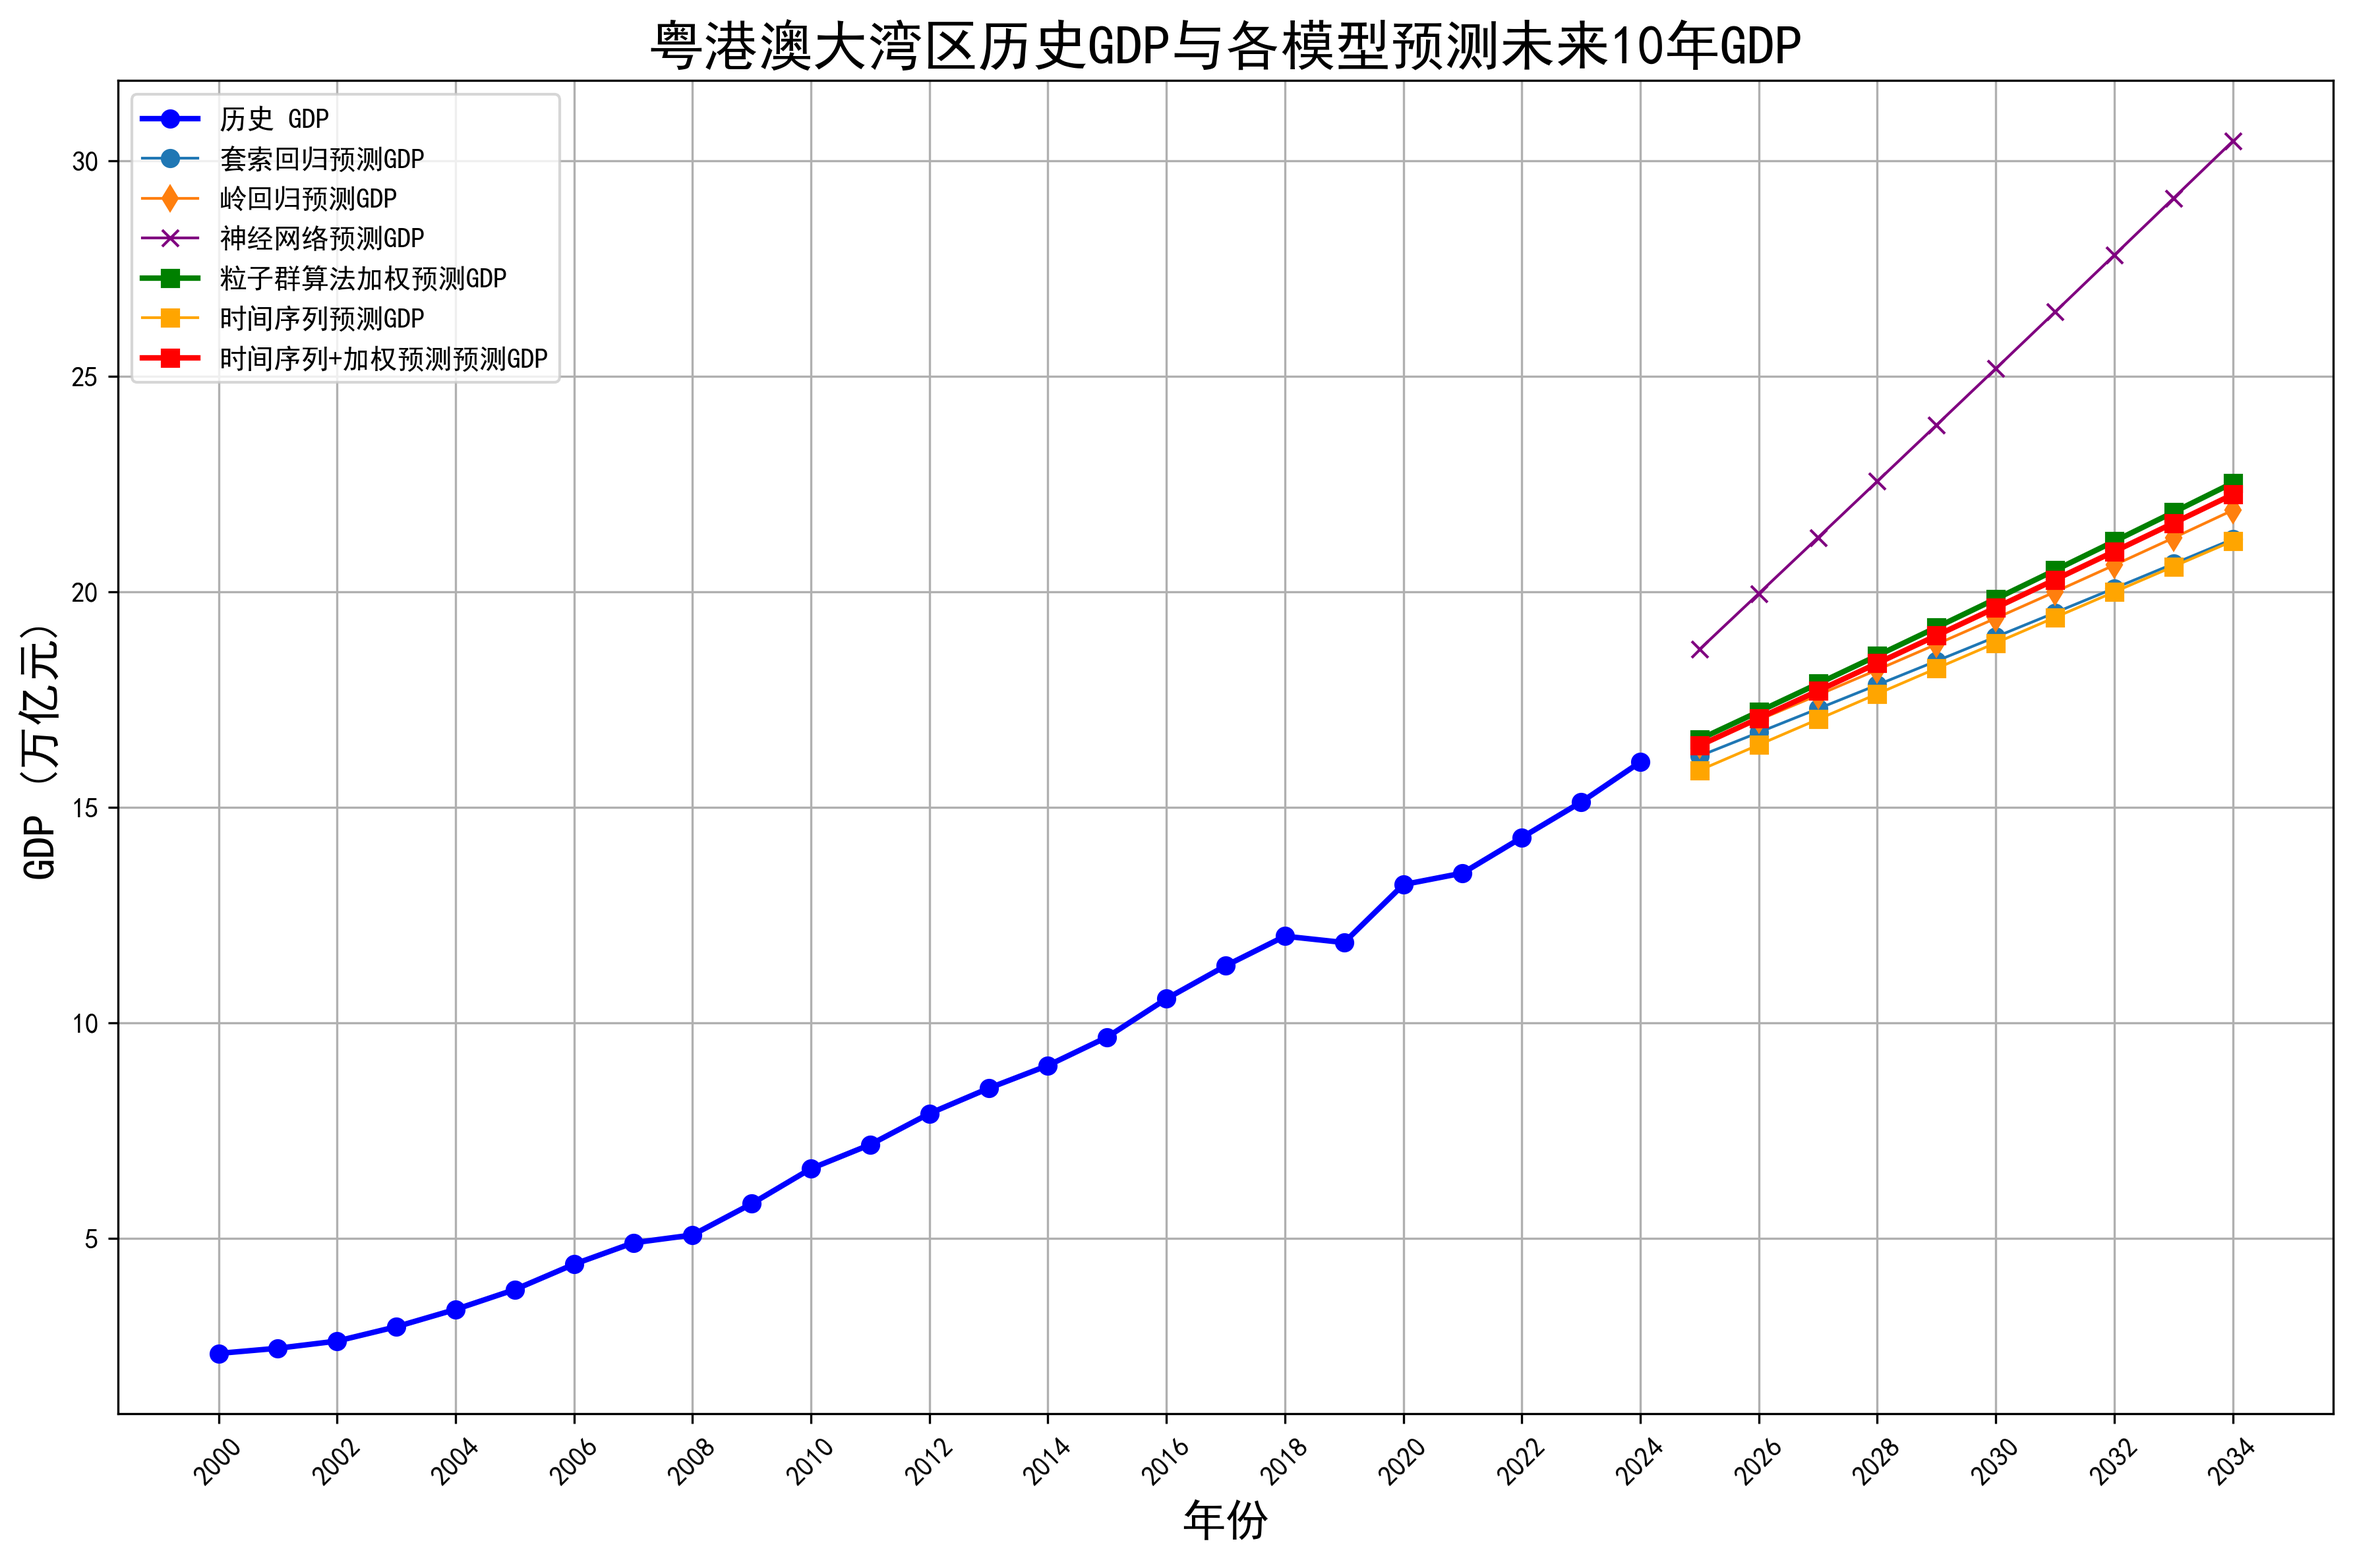
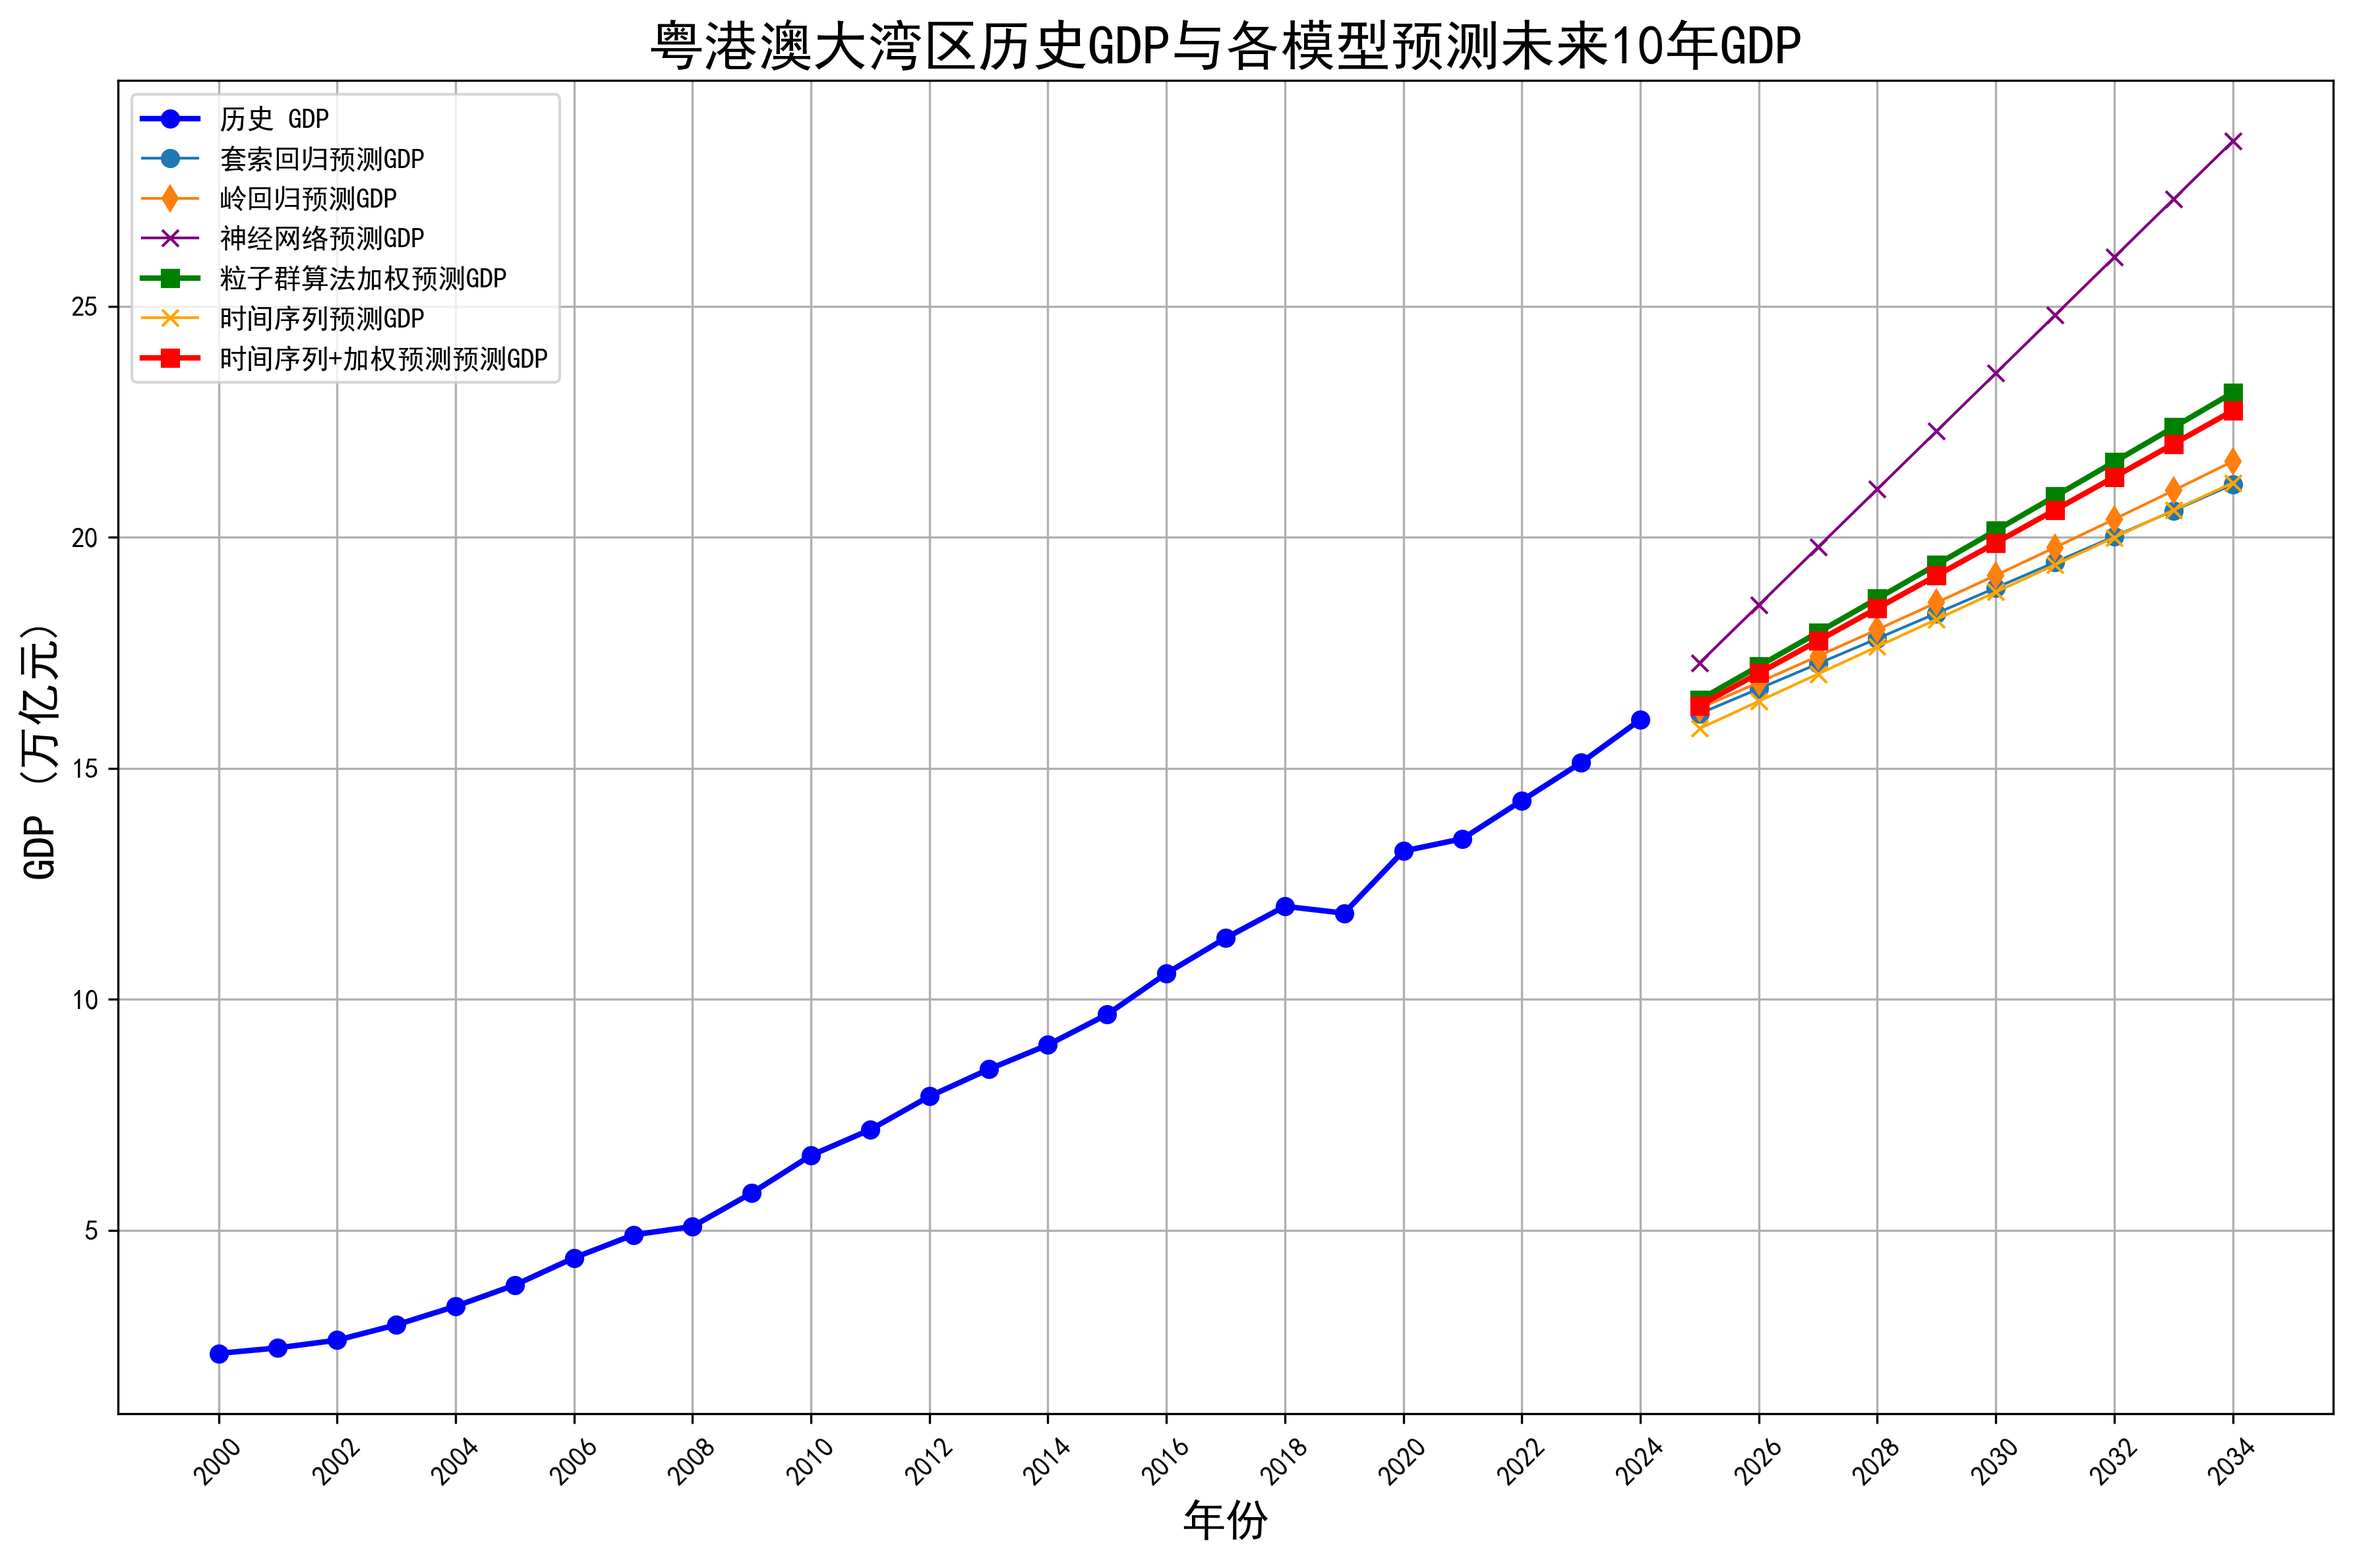
adjust figure format

diff --git a/Q3_newyork_yang.py b/Q3_newyork_yang.py
@@ -261,7 +261,7 @@ plt.show()
 
 # 设置随机种子
 np.random.seed(42)
-
+from statsmodels.tsa.arima.model import ARIMA
 
 # 定义生成未来10年数据的函数（无偏置项）
 def generate_future_data(data, years=10, growth_type='linear', model_type='linear_regression', random_state=42):
@@ -352,10 +352,10 @@ def generate_future_data(data, years=10, growth_type='linear', model_type='linea
 
 
 # 生成未来10年的人口数据
-future_population_data = generate_future_data(population_data, years=10, growth_type="xgboost")
+future_population_data = generate_future_data(population_data, years=10, growth_type="linear")
 
 # 生成未来10年的技术数据
-future_technology_data = generate_future_data(technology_data, years=10, growth_type='exponential')
+future_technology_data = generate_future_data(technology_data, years=10, growth_type='linear')
 
 # 生成未来10年的物流数据
 future_logistics_data = generate_future_data(logistics_data, years=10, growth_type='linear')
@@ -367,7 +367,7 @@ future_international_data = generate_future_data(international_data, years=10, g
 future_education_data = generate_future_data(education_data, years=10, growth_type='linear')
 
 # 生成未来10年的产业数据
-future_industry_data = generate_future_data(industry_data, years=10, growth_type='exponential')
+future_industry_data = generate_future_data(industry_data, years=10, growth_type='linear')
 
 # 合并生成的未来数据
 future_X = pd.concat([future_population_data, future_technology_data, future_logistics_data,
@@ -399,9 +399,9 @@ print(future_weighted)
 future_gdp_array = future_gdp.values.flatten()
 
 
-future_final_combine=0.5*future_weighted+0.5*future_gdp_array
+future_final_combine=0.8*future_weighted+0.2*future_gdp_array
 
-plt.figure(figsize=(12, 6))
+plt.figure(figsize=(12, 8))
 
 # 假设 gdp 数据从 2000 年开始，每年的索引递增
 start_year = 2000
@@ -416,17 +416,17 @@ combined_gdp = pd.concat([gdp, pd.Series(future_lasso, index=range(len(gdp), len
 plt.plot(years[:len(gdp)], gdp, 'o-', label='历史 GDP', linewidth=2, color='blue')
 
 # 绘制每个模型的未来预测曲线
-plt.plot(years[len(gdp):], future_lasso, 'o-', label='套索回归预测GDP', linewidth=2)
-plt.plot(years[len(gdp):], future_ridge, 'd-', label='岭回归预测GDP', linewidth=2)
-plt.plot(years[len(gdp):], future_nn, 'x-', label='神经网络预测GDP', linewidth=2, color='purple')
+plt.plot(years[len(gdp):], future_lasso, 'o-', label='套索回归预测GDP', linewidth=1)
+plt.plot(years[len(gdp):], future_ridge, 'd-', label='岭回归预测GDP', linewidth=1)
+plt.plot(years[len(gdp):], future_nn, 'x-', label='神经网络预测GDP', linewidth=1, color='purple')
 plt.plot(years[len(gdp):], future_weighted, 's-', label='粒子群算法加权预测GDP', linewidth=2, color='green')
-plt.plot(years[len(gdp):], future_gdp, 's-', label='时间序列预测GDP', linewidth=2, color='orange')
+plt.plot(years[len(gdp):], future_gdp, 'x-', label='时间序列预测GDP', linewidth=1, color='orange')
 plt.plot(years[len(gdp):], future_final_combine, 's-', label='时间序列+加权预测预测GDP', linewidth=2, color='red')
 
 # 设置图表标题和轴标签
 plt.title('纽约历史GDP与各模型预测未来10年GDP', fontsize=20)
 plt.xlabel('年份', fontsize=16)
-plt.ylabel('GDP (万亿元)', fontsize=16)
+plt.ylabel('GDP (万亿美元)', fontsize=16)
 
 # 调整 x 轴标签
 plt.xticks(years[::2], rotation=45)  # 每隔两年显示一次，标签旋转以适应

diff --git a/Q3_Tokyo_yang.py b/Q3_Tokyo_yang.py
@@ -261,7 +261,7 @@ plt.show()
 
 # 设置随机种子
 np.random.seed(42)
-
+from statsmodels.tsa.arima.model import ARIMA
 
 # 定义生成未来10年数据的函数（无偏置项）
 def generate_future_data(data, years=10, growth_type='linear', model_type='linear_regression', random_state=42):
@@ -352,10 +352,10 @@ def generate_future_data(data, years=10, growth_type='linear', model_type='linea
 
 
 # 生成未来10年的人口数据
-future_population_data = generate_future_data(population_data, years=10, growth_type="xgboost")
+future_population_data = generate_future_data(population_data, years=10, growth_type="linear")
 
 # 生成未来10年的技术数据
-future_technology_data = generate_future_data(technology_data, years=10, growth_type='exponential')
+future_technology_data = generate_future_data(technology_data, years=10, growth_type='linear')
 
 # 生成未来10年的物流数据
 future_logistics_data = generate_future_data(logistics_data, years=10, growth_type='linear')
@@ -367,7 +367,7 @@ future_international_data = generate_future_data(international_data, years=10, g
 future_education_data = generate_future_data(education_data, years=10, growth_type='linear')
 
 # 生成未来10年的产业数据
-future_industry_data = generate_future_data(industry_data, years=10, growth_type='exponential')
+future_industry_data = generate_future_data(industry_data, years=10, growth_type='linear')
 
 # 合并生成的未来数据
 future_X = pd.concat([future_population_data, future_technology_data, future_logistics_data,
@@ -399,9 +399,9 @@ print(future_weighted)
 future_gdp_array = future_gdp.values.flatten()
 
 
-future_final_combine=0.5*future_weighted+0.5*future_gdp_array
+future_final_combine=0.8*future_weighted+0.2*future_gdp_array
 
-plt.figure(figsize=(12, 6))
+plt.figure(figsize=(12, 8))
 
 # 假设 gdp 数据从 2000 年开始，每年的索引递增
 start_year = 2000
@@ -416,17 +416,17 @@ combined_gdp = pd.concat([gdp, pd.Series(future_lasso, index=range(len(gdp), len
 plt.plot(years[:len(gdp)], gdp, 'o-', label='历史 GDP', linewidth=2, color='blue')
 
 # 绘制每个模型的未来预测曲线
-plt.plot(years[len(gdp):], future_lasso, 'o-', label='套索回归预测GDP', linewidth=2)
-plt.plot(years[len(gdp):], future_ridge, 'd-', label='岭回归预测GDP', linewidth=2)
-plt.plot(years[len(gdp):], future_nn, 'x-', label='神经网络预测GDP', linewidth=2, color='purple')
+plt.plot(years[len(gdp):], future_lasso, 'o-', label='套索回归预测GDP', linewidth=1)
+plt.plot(years[len(gdp):], future_ridge, 'd-', label='岭回归预测GDP', linewidth=1)
+# plt.plot(years[len(gdp):], future_nn, 'x-', label='神经网络预测GDP', linewidth=2, color='purple')
 plt.plot(years[len(gdp):], future_weighted, 's-', label='粒子群算法加权预测GDP', linewidth=2, color='green')
-plt.plot(years[len(gdp):], future_gdp, 's-', label='时间序列预测GDP', linewidth=2, color='orange')
+plt.plot(years[len(gdp):], future_gdp, 'x-', label='时间序列预测GDP', linewidth=1, color='orange')
 plt.plot(years[len(gdp):], future_final_combine, 's-', label='时间序列+加权预测预测GDP', linewidth=2, color='red')
 
 # 设置图表标题和轴标签
 plt.title('东京GDP与各模型预测未来10年GDP', fontsize=20)
 plt.xlabel('年份', fontsize=16)
-plt.ylabel('GDP (万亿元)', fontsize=16)
+plt.ylabel('GDP (万亿日元)', fontsize=16)
 
 # 调整 x 轴标签
 plt.xticks(years[::2], rotation=45)  # 每隔两年显示一次，标签旋转以适应

diff --git a/Q2_2_yang.py b/Q2_2_yang.py
@@ -362,7 +362,7 @@ def generate_future_data(data, years=10, growth_type='linear', model_type='linea
 
 
 # 生成未来10年的人口数据
-future_population_data = generate_future_data(population_data, years=10, growth_type="xgboost")
+future_population_data = generate_future_data(population_data, years=10, growth_type="linear")
 
 # 生成未来10年的技术数据
 future_technology_data = generate_future_data(technology_data, years=10, growth_type='exponential')
@@ -430,7 +430,7 @@ plt.plot(years[len(gdp):], future_lasso, 'o-', label='套索回归预测GDP', li
 plt.plot(years[len(gdp):], future_ridge, 'd-', label='岭回归预测GDP', linewidth=1)
 plt.plot(years[len(gdp):], future_nn, 'x-', label='神经网络预测GDP', linewidth=1, color='purple')
 plt.plot(years[len(gdp):], future_weighted, 's-', label='粒子群算法加权预测GDP', linewidth=2, color='green')
-plt.plot(years[len(gdp):], future_gdp, 's-', label='时间序列预测GDP', linewidth=1, color='orange')
+plt.plot(years[len(gdp):], future_gdp, 'x-', label='时间序列预测GDP', linewidth=1, color='orange')
 plt.plot(years[len(gdp):], future_final_combine, 's-', label='时间序列+加权预测预测GDP', linewidth=2, color='red')
 
 # 设置图表标题和轴标签
